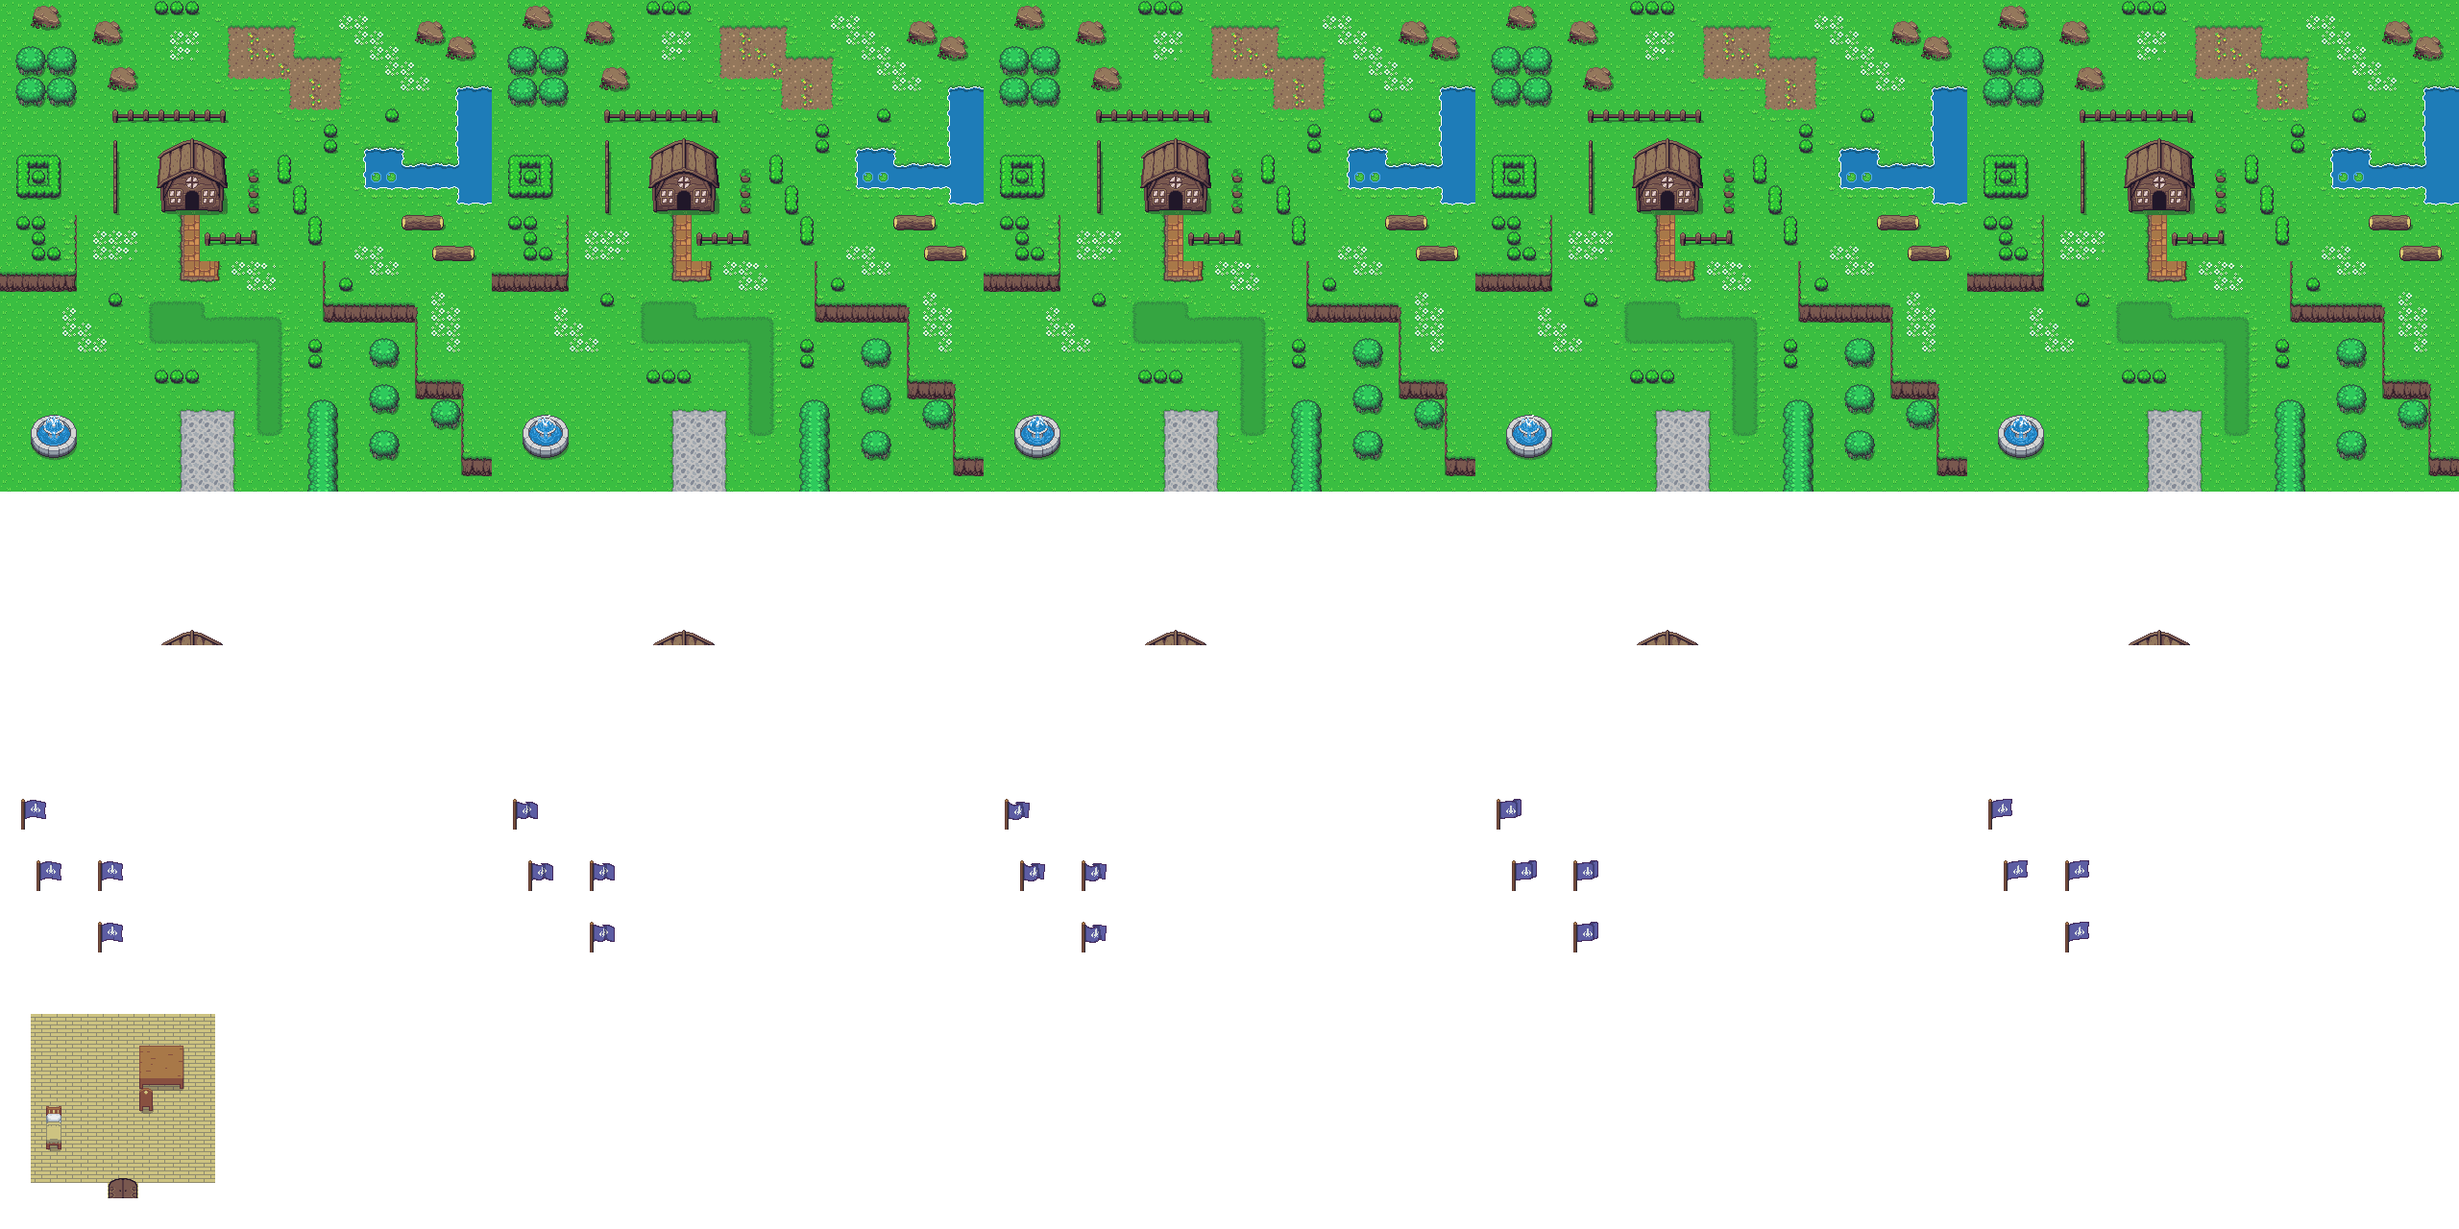
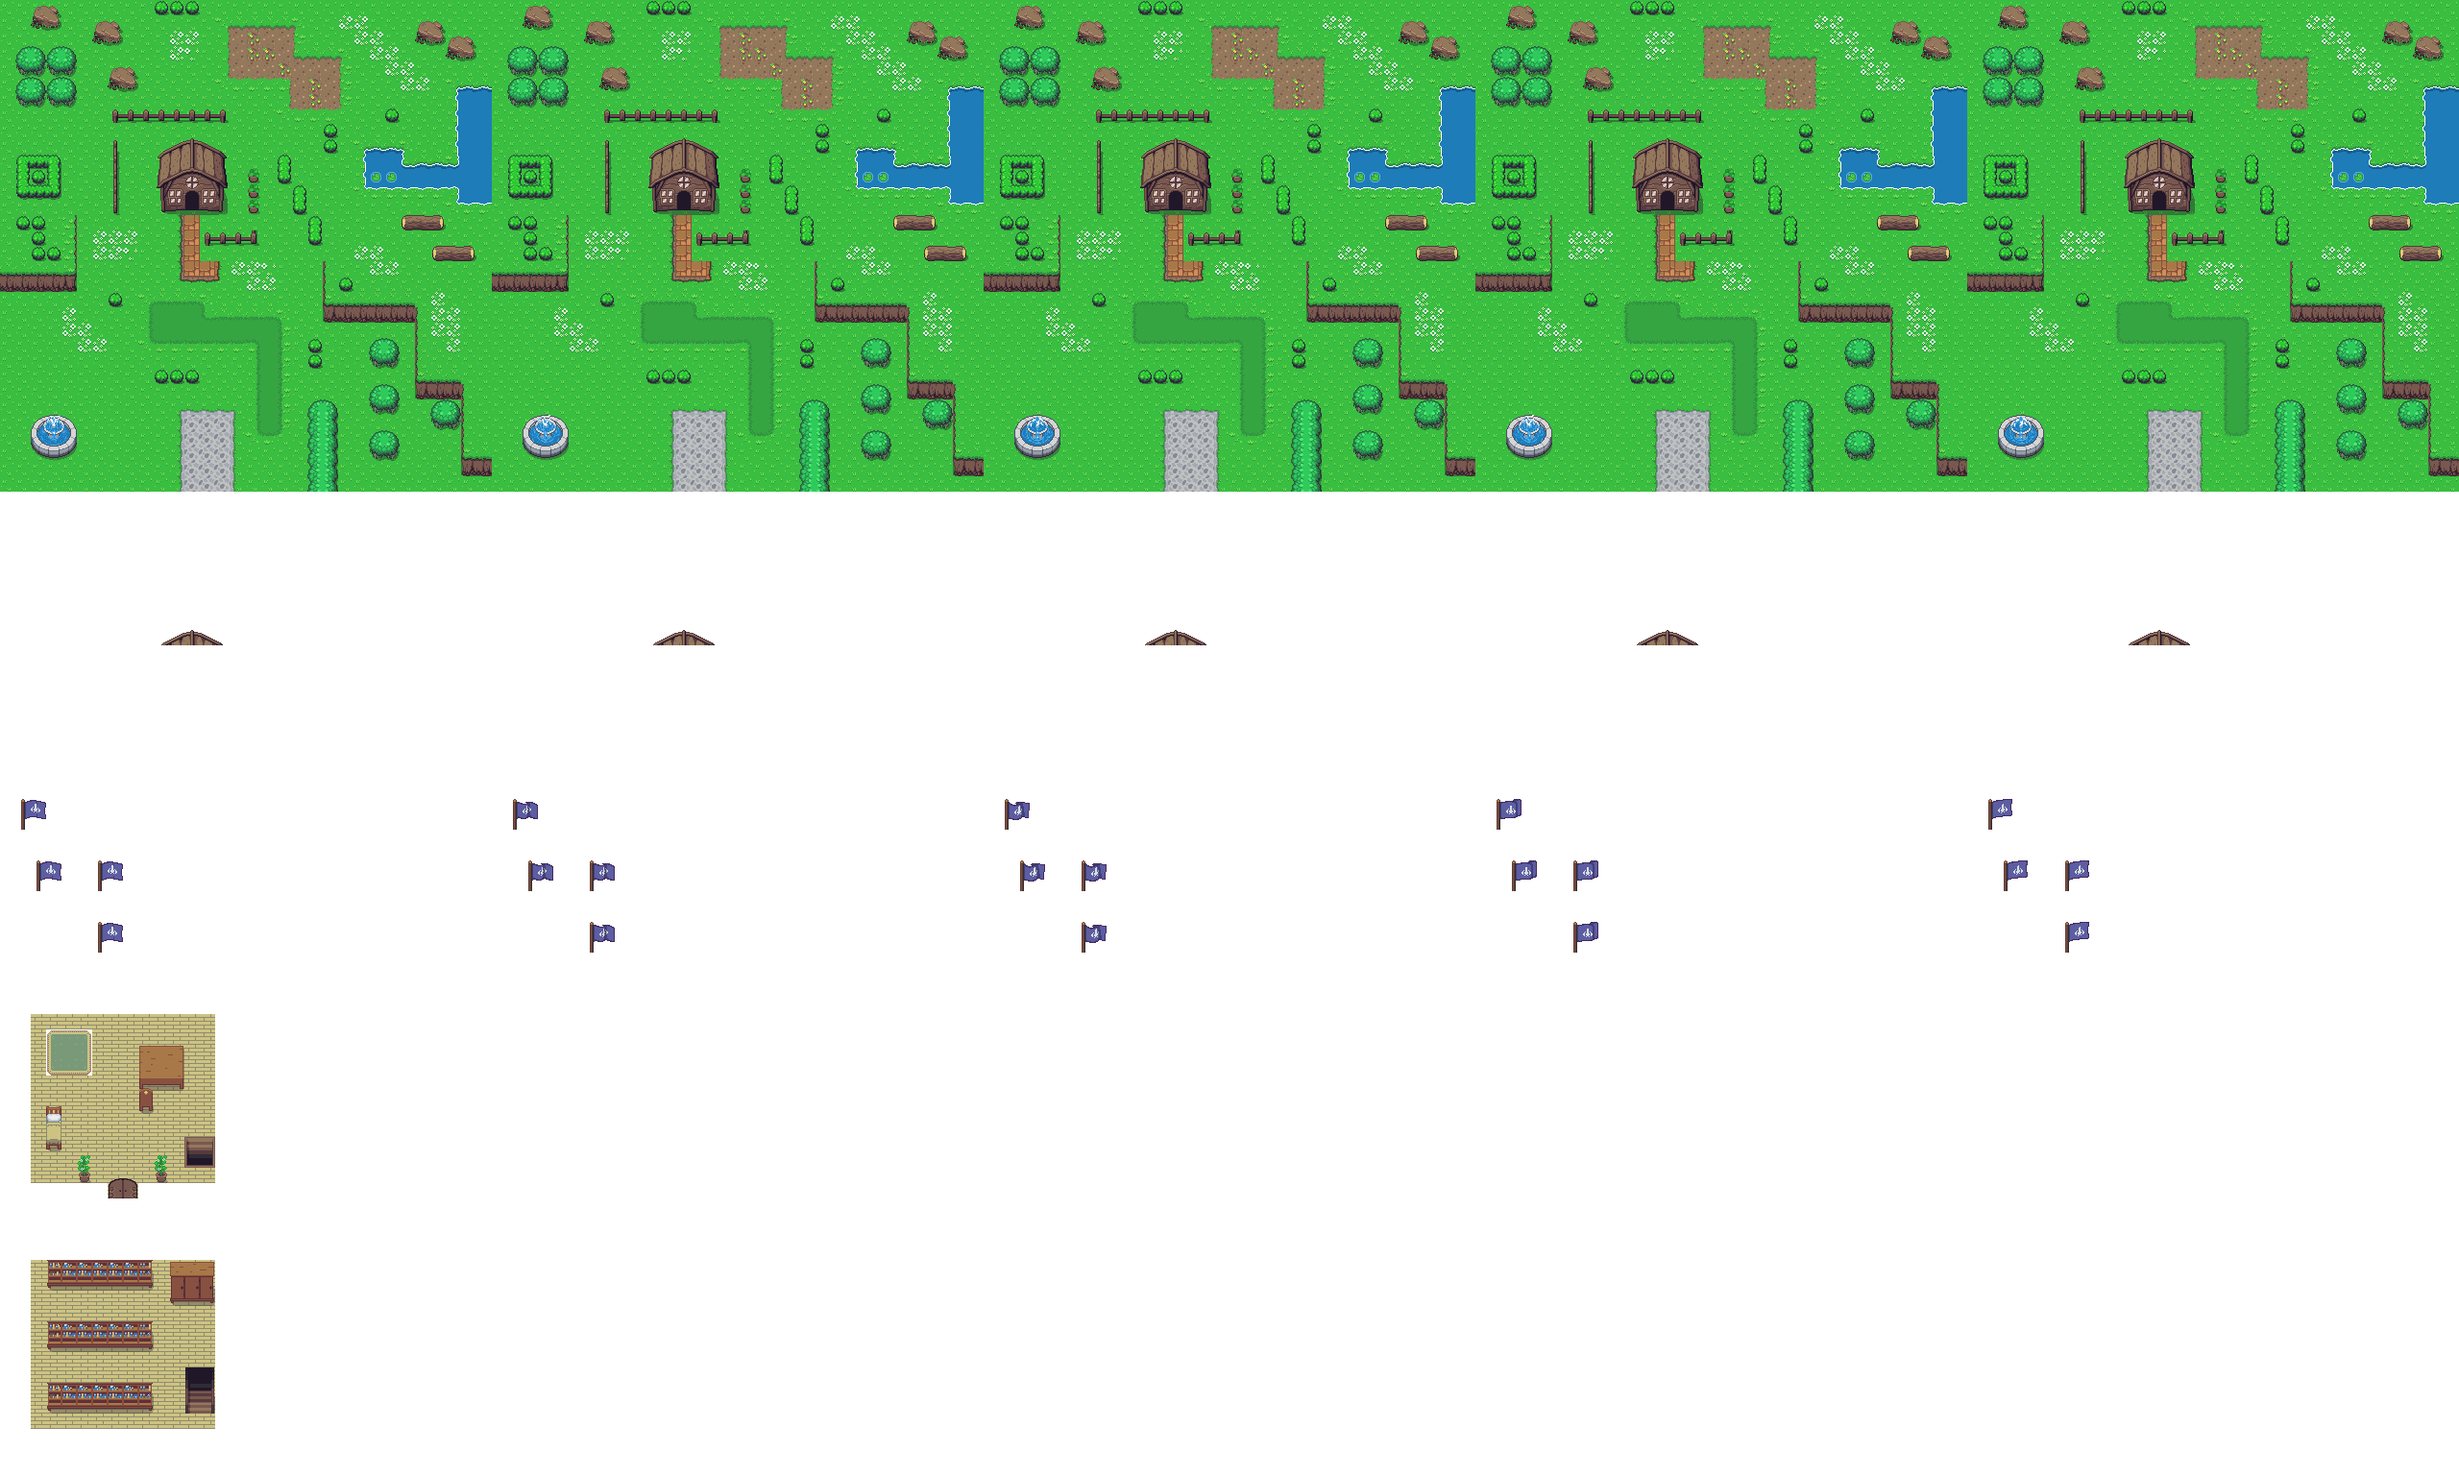
Add a second floor to the house

diff --git a/server.c b/server.c
@@ -1076,9 +1076,18 @@ main (int argc, char *argv[])
     room_unwalkables [] = {RECT_BY_GRID (1, 6, 1, 3),
     RECT_BY_GRID (7, 2, 3, 3), RECT_BY_GRID (7, 5, 1, 1),
     RECT_BY_GRID (0, 11, 5, 1), RECT_BY_GRID (7, 11, 5, 1),
-    RECT_BY_GRID (9, 8, 1, 1)};
+    RECT_BY_GRID (7, 7, 1, 1), RECT_BY_GRID (3, 9, 1, 2),
+    RECT_BY_GRID (8, 9, 1, 2), RECT_BY_GRID (10, 8, 0, 2),
+    RECT_BY_GRID (10, 10, 2, 0)};
   struct object_spawn room_object_spawns [] = {{RECT_BY_GRID (1, 1, 1, 1), 0},
 					       {RECT_BY_GRID (3, 1, 1, 1), 0}};
+
+  struct server_area basement = {0};
+  SDL_Rect basement_walkable = RECT_BY_GRID (0, 0, 12, 11),
+    basement_unwalkables [] = {RECT_BY_GRID (1, 0, 7, 2),
+    RECT_BY_GRID (1, 4, 7, 2), RECT_BY_GRID (1, 8, 7, 2),
+    RECT_BY_GRID (9, 0, 3, 3), RECT_BY_GRID (10, 7, 2, 0),
+    RECT_BY_GRID (10, 7, 0, 3)};
 
   SDL_Event event;
 
@@ -1142,12 +1151,14 @@ main (int argc, char *argv[])
   room.id = 1;
   room.walkable = room_walkable;
   room.unwalkables = room_unwalkables;
-  room.unwalkables_num = 6;
-  room.warps = make_warp_by_grid (5, 11, 2, 1, &field, 12, 14, NULL);
+  room.unwalkables_num = 10;
+  room.warps = make_warp_by_grid (5, 11, 2, 1, &field, 12, 14,
+				  make_warp_by_grid (10, 8, 2, 2, &basement, 10,
+						     10, NULL));
   room.interactibles = make_interactible_by_grid
     (1, 6, 1, 3, "Can't sleep now!              "
      "There might be zombies around." "Better take a look            ", NULL);
-  room.npcs = make_interactible_by_grid (9, 8, 1, 1,
+  room.npcs = make_interactible_by_grid (7, 7, 1, 1,
 					 "At that corner you will find  "
 					 "health and ammo.              "
 					 "If you have some patience,    "
@@ -1158,7 +1169,13 @@ main (int argc, char *argv[])
   room.zombie_spawns_num = 0;
   room.object_spawns = room_object_spawns;
   room.object_spawns_num = room.free_object_spawns_num = 2;
-  room.next = NULL;
+  room.next = &basement;
+
+  basement.id = 2;
+  basement.walkable = basement_walkable;
+  basement.unwalkables = basement_unwalkables;
+  basement.unwalkables_num = 6;
+  basement.warps = make_warp_by_grid (10, 7, 2, 3, &room, 10, 7, NULL);
 
   srand (time (NULL));
 

diff --git a/client.c b/client.c
@@ -120,8 +120,12 @@ main (int argc, char *argv[])
     room_walkable = RECT_BY_GRID (2, 2, 12, 12);
   SDL_Rect room_npc_srcs [] = {{4, 5, 24, 24}, {4, 37, 24, 24}, {4, 69, 24, 24},
 			       {4, 101, 24, 24}};
-  struct npc room_npcs [] = {{RECT_BY_GRID (9, 8, 1, 1), NULL, room_npc_srcs,
+  struct npc room_npcs [] = {{RECT_BY_GRID (7, 7, 1, 1), NULL, room_npc_srcs,
 			      {-4, -4, 0, 0}, FACING_DOWN}};
+
+  struct client_area basement = {0};
+  SDL_Rect basement_src = {0, 1280, 256, 256},
+    basement_walkable = RECT_BY_GRID (2, 2, 12, 11);
 
   struct client_area *areas = &field, *area = &field, *ar;
 
@@ -433,7 +437,13 @@ main (int argc, char *argv[])
   room_npcs [0].texture = npctxtr;
   room.npcs = room_npcs;
   room.npcs_num = 1;
-  room.next = NULL;
+  room.next = &basement;
+
+  basement.id = 2;
+  basement.texture = areatxtr;
+  basement.display_srcs = &basement_src;
+  basement.area_frames_num = 1;
+  basement.walkable = basement_walkable;
 
   SDL_RenderCopy (rend, field.texture, NULL, NULL);
   character_dest.x = character_box.x + character_origin.x;
